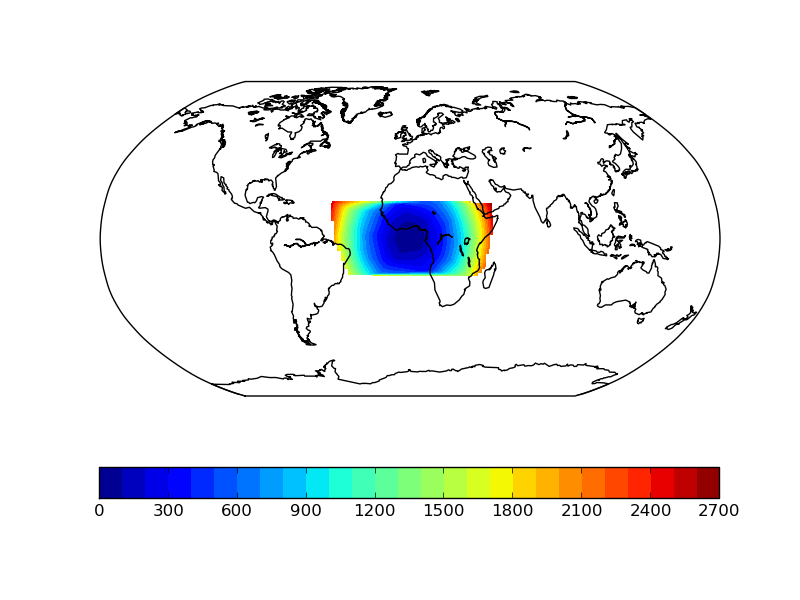
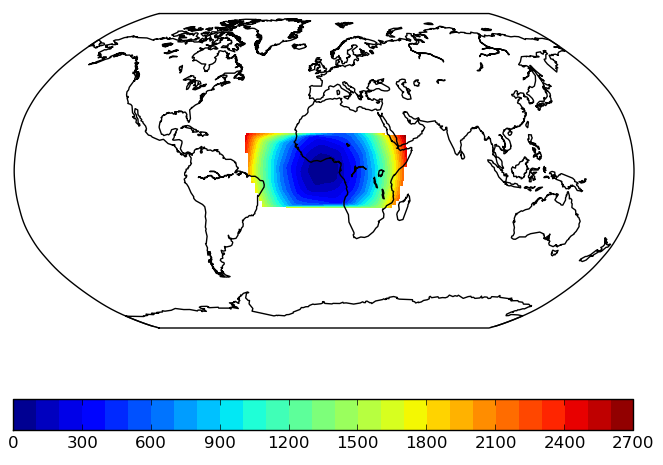
Larger plot for tomo example and cropped some pngs

diff --git a/papers/leonardo_uieda/leonardo_uieda.rst b/papers/leonardo_uieda/leonardo_uieda.rst
@@ -828,6 +828,9 @@ and the result is specially smoothed
 where there are no rays.
 
 .. figure:: seismic_tomo.png
+    :align: center
+    :figclass: w
+    :scale: 60%
 
     Example run of a simplified 2D tomography. The top-left panel shows the
     true velocity model with the locations of earthquakes (yellow stars) and
